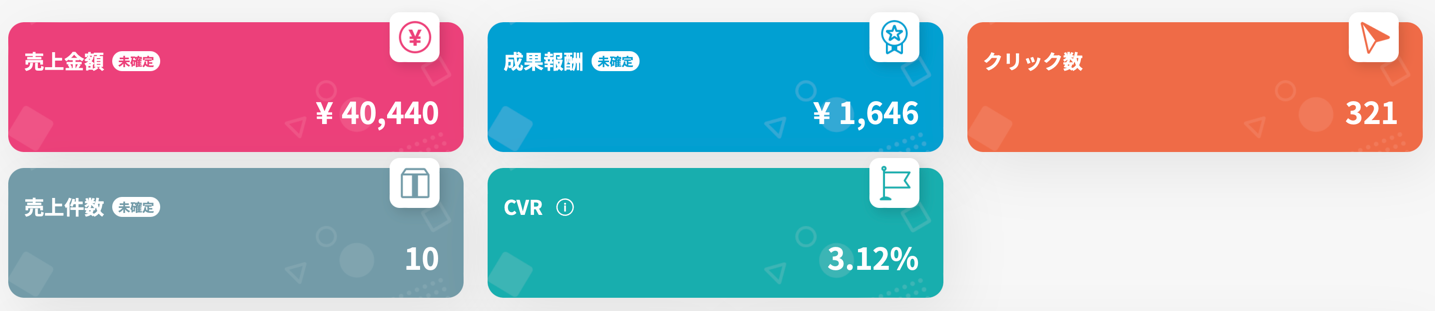
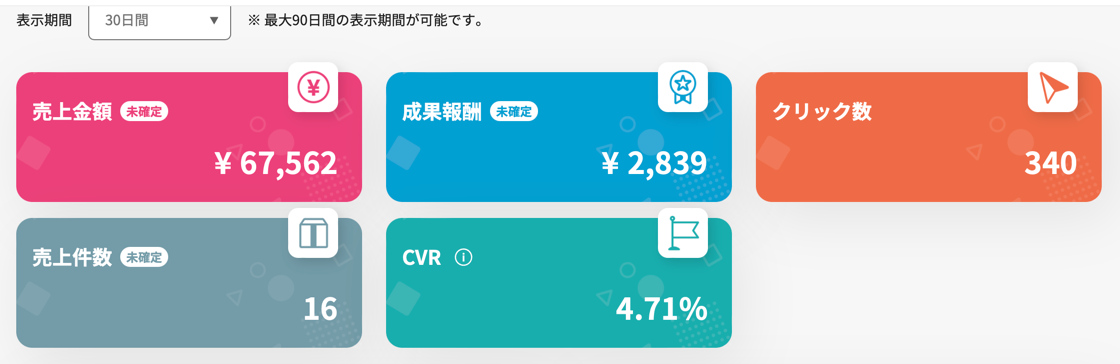
rakuten room

diff --git a/posts/2023-12-05-rakuten-room-auto-post.md b/posts/2023-12-05-rakuten-room-auto-post.md
@@ -96,8 +96,8 @@ date: "2023-12-05"
 
 ## 成果
 
-- 実施期間：2023/11/13 〜 2023/12/5
-- 成果報酬: ¥1,646
+- 実施期間：2023/11/13 〜 2023/12/6
+- 成果報酬: ¥2,839
 - ChatGPT Cost: ¥576.50 ($3.92)
 ![2023-12-05-01.png](/images/2023-12-05-01.png)
 
